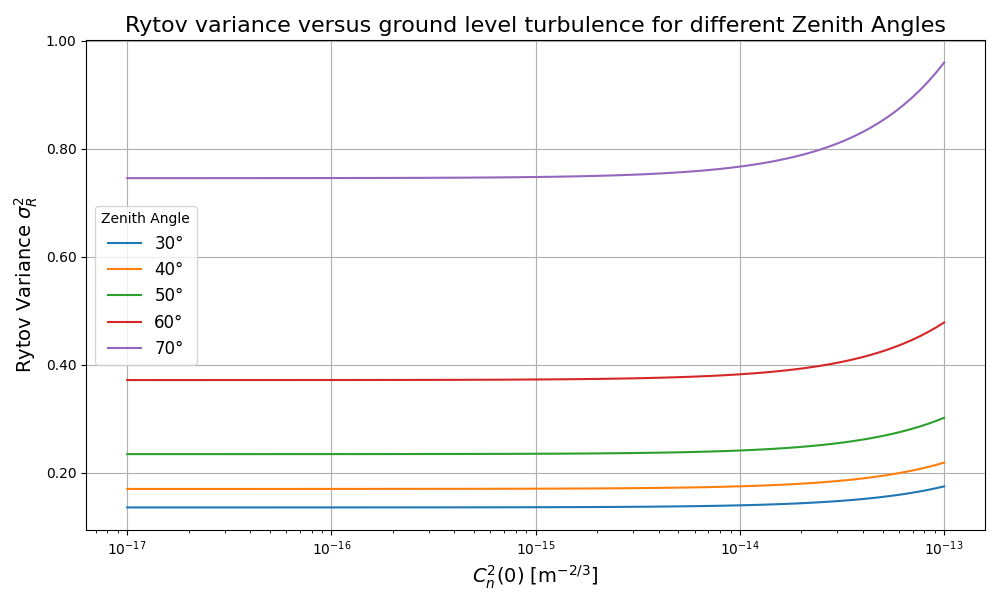
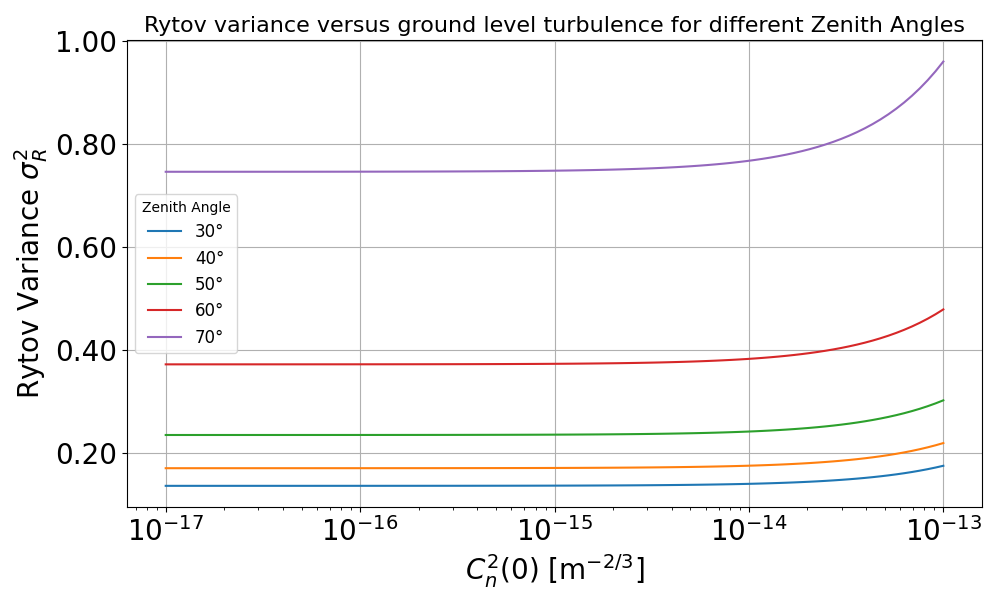
Simulate the rytov variance

diff --git a/BB84/SimulationResult/Circle_beam/Fading/rytov.py b/BB84/SimulationResult/Circle_beam/Fading/rytov.py
@@ -59,13 +59,15 @@ for theta_deg in theta_zen_degrees:
 
 plt.xscale('log')
 plt.yscale('linear')
-plt.xlabel(r'$C_n^2(0)$ [m$^{-2/3}$]', fontsize=14)
-plt.ylabel(r'Rytov Variance $\sigma_R^2$', fontsize=14)
+plt.xlabel(r'$C_n^2(0)$ [m$^{-2/3}$]', fontsize=20)
+plt.ylabel(r'Rytov Variance $\sigma_R^2$', fontsize=20)
 plt.title('Rytov variance versus ground level turbulence for different Zenith Angles', fontsize=16)
 plt.grid(True)
 plt.gca().yaxis.set_major_locator(MultipleLocator(0.2))
 plt.gca().yaxis.set_major_formatter(FormatStrFormatter('%.2f'))
 plt.legend(title='Zenith Angle', fontsize=12)
+plt.xticks(fontsize=20)
+plt.yticks(fontsize=20)
 plt.tight_layout()
 output_path = os.path.join(os.path.dirname(__file__), f'Rytov_variance_zenith.png')
 plt.savefig(output_path)
